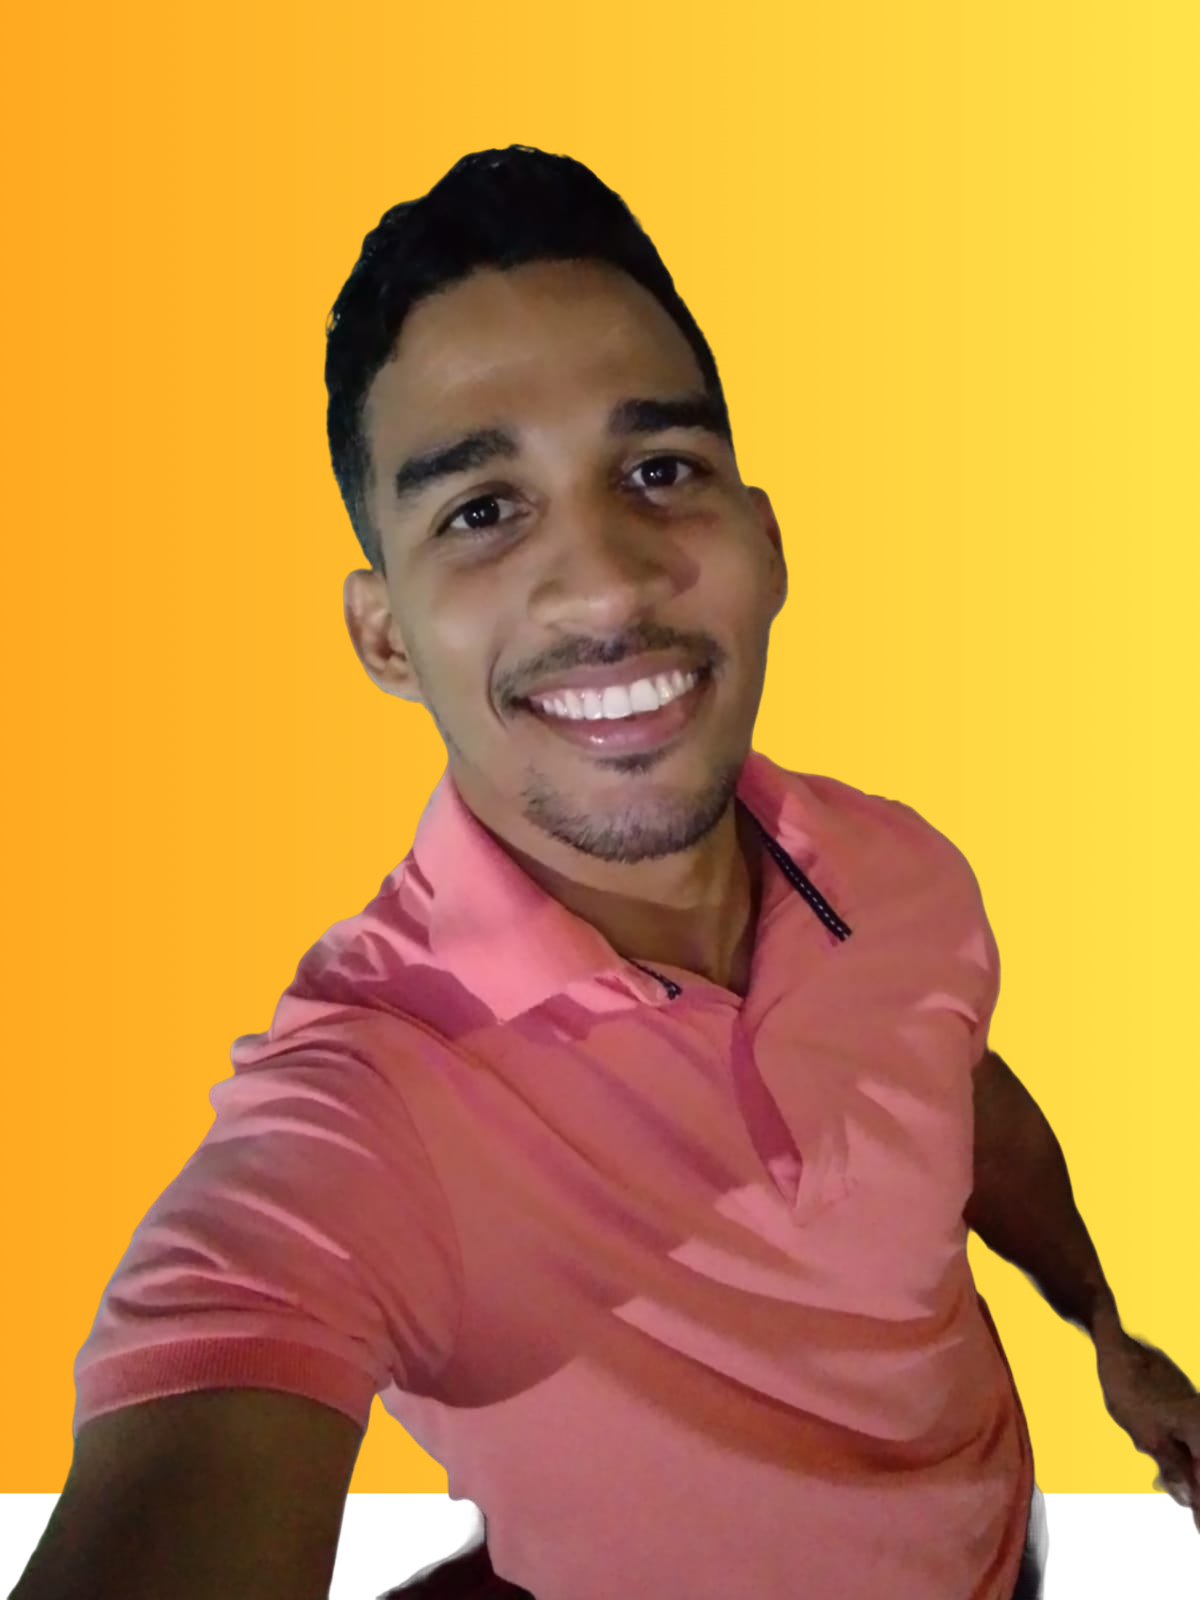
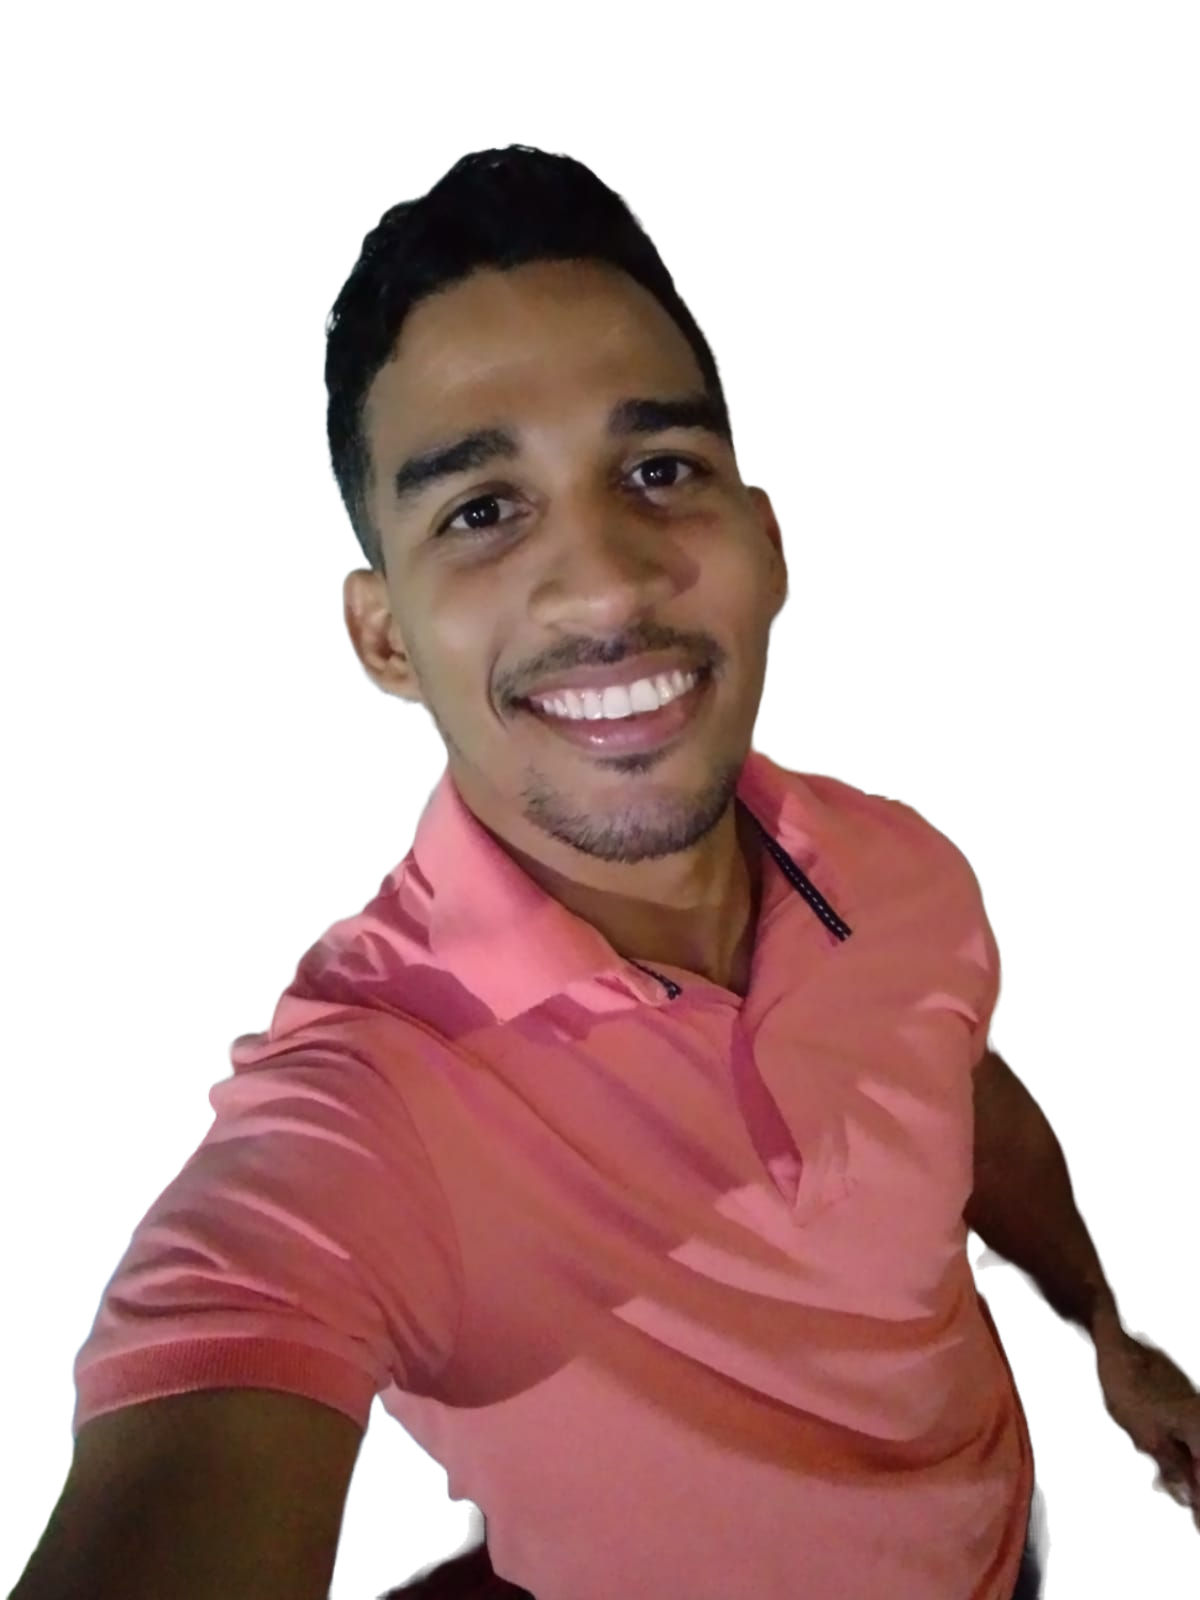
atualizando o portfolio, cores

diff --git a/style.css b/style.css
@@ -2,14 +2,14 @@
 @import url('https://fonts.googleapis.com/css2?family=Raleway:ital@1&display=swap');
 
 :root{
-    --principal-color: rgb(34,193,195);
+    --main-color:#1F203A;
     --fuente-texto: "roboto", sans-serif;
     --fuente-titulo: "Raleway", sans-serif;
     --titulos-color: #000 ; 
     --text-color: #000;
     --light-text-color: #8e9ba4;
     --container-color: #FFF;
-    --body-color: linear-gradient(0deg, rgba(34,193,195,1) 0%, rgba(253,187,45,1) 100%);
+    --body-color: #F2F2F2;
     --shadow-color: 0px 2px 2px rgba(0, 0, 0, 0.2);
     --font-size-titulos: 40px;
     --font-size-texto: 16px;

diff --git a/heroImage.css b/heroImage.css
@@ -1,5 +1,5 @@
 .hero {
-    background-image: url("https://user-images.githubusercontent.com/101142283/210440032-f8cba697-a907-4913-ad9c-9103893090e2.png");
+    background-image: url("https://user-images.githubusercontent.com/101142283/213743305-106f7ba7-12fb-49ee-8d3d-95d25dba8fd8.png");
     background-color: rgba(0, 0, 0, .70);
     height: 395px;
     width: 100%;

diff --git a/tema-dark.css b/tema-dark.css
@@ -1,5 +1,5 @@
 .dark-mode {
-    --principal-color: rgb(34,193,195);
+    --main-color:#1F203A;
     --fuente-texto: "roboto", sans-serif;
     --fuente-titulo: "Raleway", sans-serif;
     --titulos-color: #000 ; 
@@ -36,7 +36,7 @@
   }  
 
   .btn-mode:hover{
-    background-color:#000;
+    background-color: #F2F2F2;
     color: var(--main-color);
   }
       

diff --git a/navegacao.css b/navegacao.css
@@ -1,6 +1,6 @@
 header{
-    background: var(--principal-color);
-    background: var(--body-color);
+    background: var(--main-color);
+    background: var(--main-color);
 }
 
 
@@ -16,7 +16,7 @@ header{
 .navegacao a{
     font-family: var(--fuente-titulo);
     padding-right: 30px;
-    color: var(--text-color);
+    color: #F2F2F2;
 
 
 }
